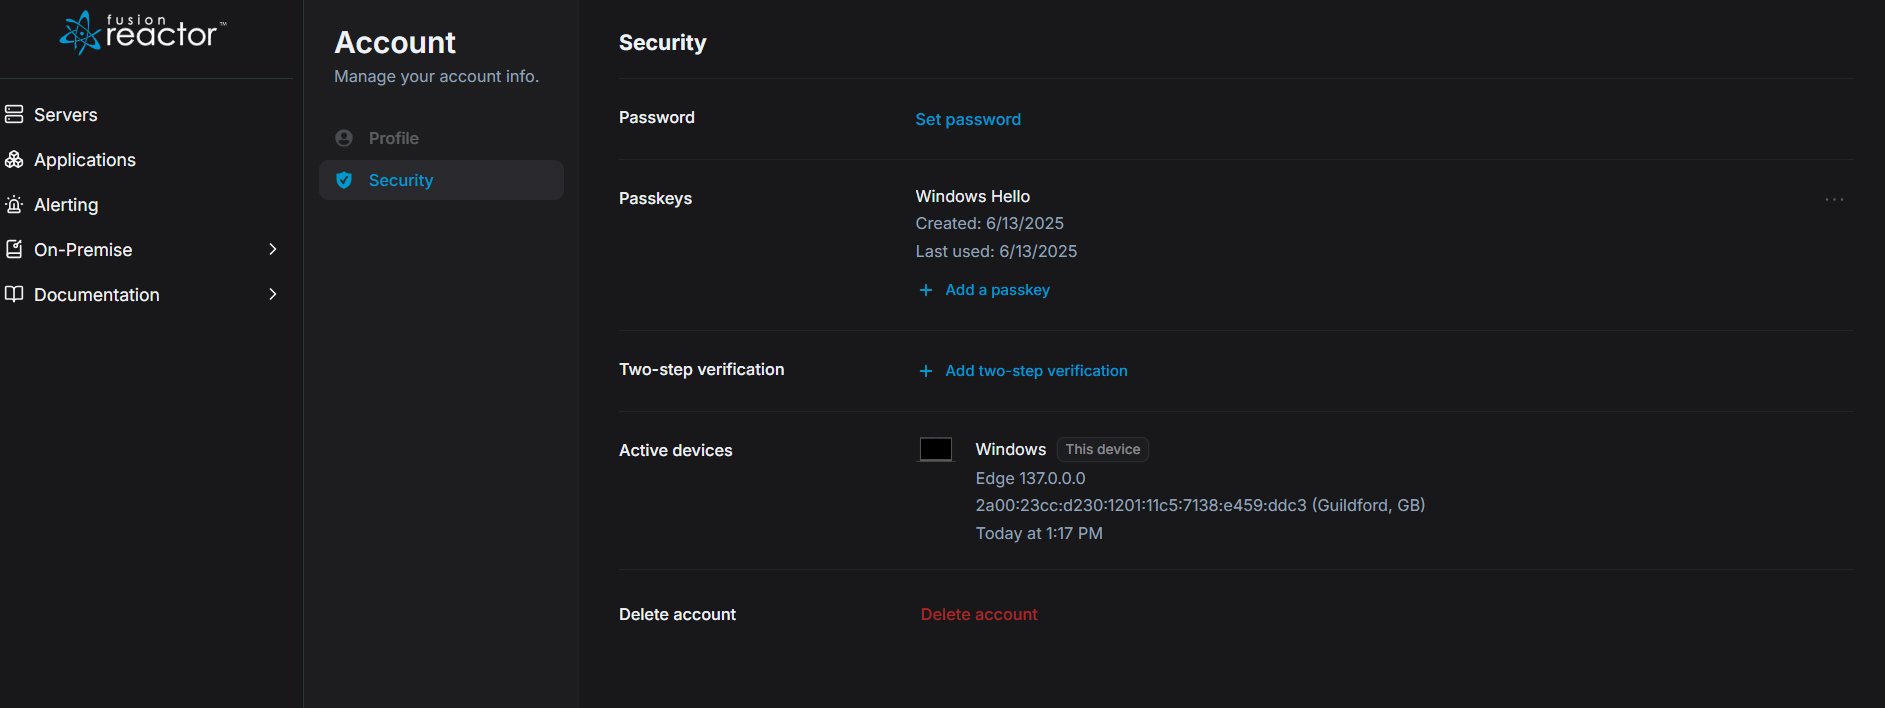
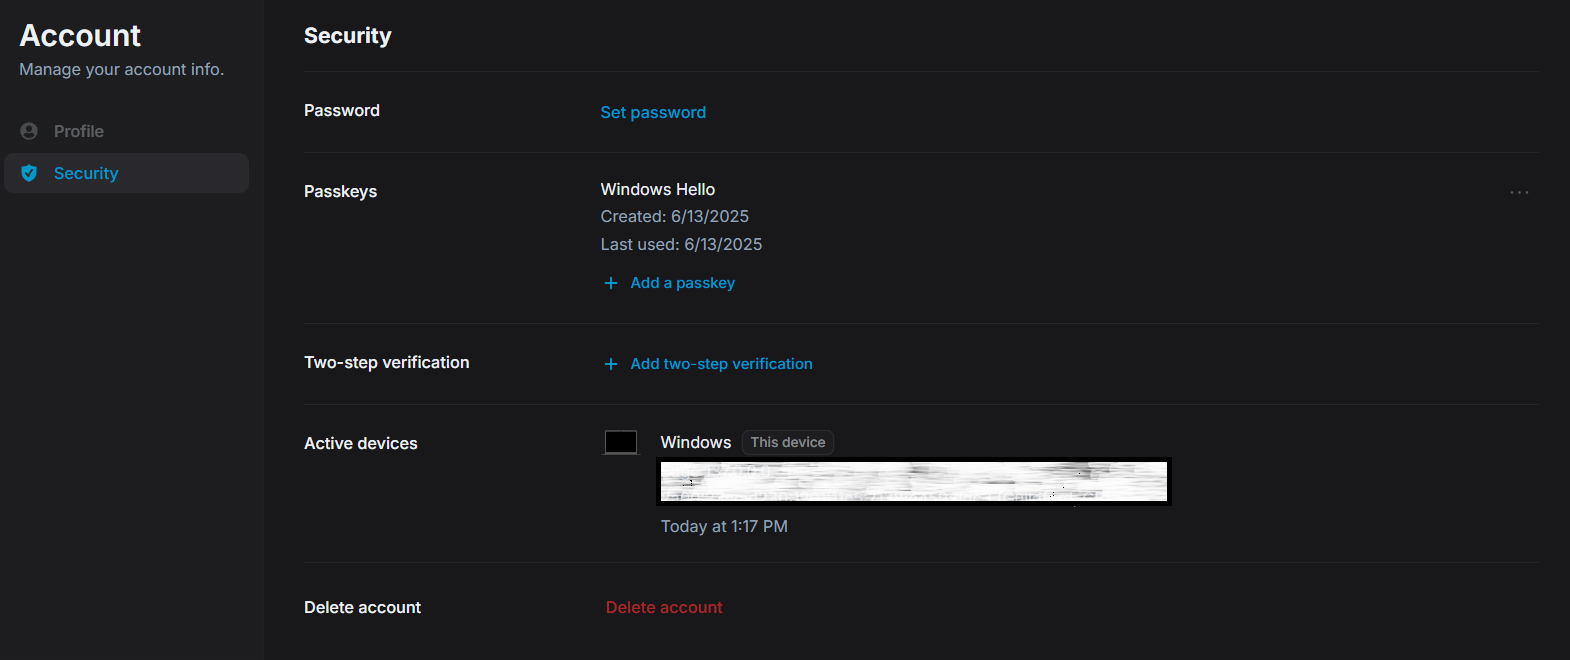
edits to images

diff --git a/docs/Admin-and-data/Account/Cloud/security.md b/docs/Admin-and-data/Account/Cloud/security.md
@@ -2,6 +2,8 @@
 
 This dedicated Security page serves as your central hub for managing and enhancing the protection of your account. Here, you can actively control various aspects of your digital safety, including setting and updating your password, configuring secure passkeys for streamlined and robust authentication, and enabling two-step verification for an added layer of defense against unauthorized access. Additionally, you'll find a clear overview of your active devices, allowing you to monitor where your account is currently logged in. This comprehensive section empowers you to maintain strong control over your account's integrity and privacy.
 
+![!Screenshot](../../Account/Cloud/Security.png)
+
 ## Password
 
 This section allows you to change your account password.

diff --git a/docs/Admin-and-data/Account/Cloud/users.md b/docs/Admin-and-data/Account/Cloud/users.md
@@ -31,7 +31,7 @@ Only admins can delete the organization, which permanently removes all members, 
 
 The **Members** tab in FusionReactor Cloud allows you to manage all users associated with your organization. You can view member details, assign roles, invite new members, and control access.
 
-![!Screenshot](../../Account/Cloud/general.png)
+![!Screenshot](../../Account/Cloud/members.png)
 
 #### Viewing members
 

diff --git a/docs/Admin-and-data/Account/Cloud/profile.md b/docs/Admin-and-data/Account/Cloud/profile.md
@@ -23,6 +23,7 @@ Below the image, you’ll find fields for your first and last name. Make any cha
 
 
 ![!Screenshot](../../Account/Cloud/update.png)
+
 ### Updating your email address
 
 To add another email address to your account, click the **+ Add email address** button. A field will appear where you can type in the new email you'd like to associate with your profile.
